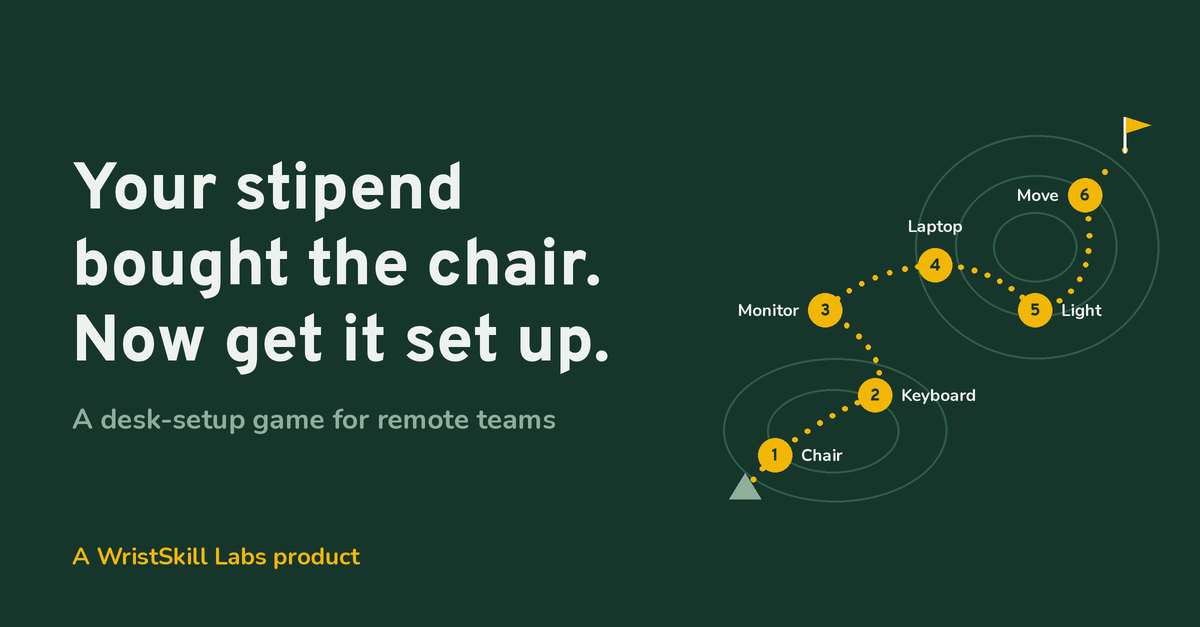
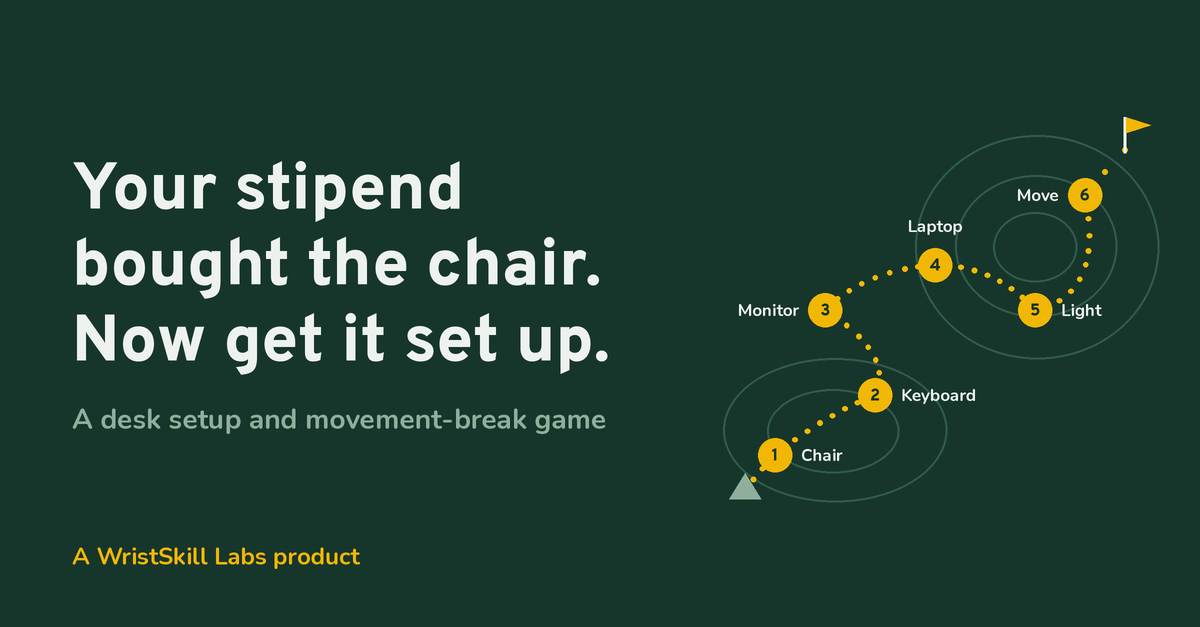
Ergo game page: After the first week section; renamed to desk setup and movement-break game; share card updated

Changed region(s): [[0.1233, 0.6364, 0.5242, 0.697]]

diff --git a/ergo-game/index.html b/ergo-game/index.html
@@ -3,13 +3,13 @@
 <head>
   <meta charset="UTF-8" />
   <meta name="viewport" content="width=device-width, initial-scale=1.0" />
-  <title>A Desk-Setup Game for Remote Teams | WristSkill Labs</title>
+  <title>Desk Setup and Movement-Break Game | WristSkill Labs</title>
   <meta name="description" content="A team game for remote and hybrid desk staff: set up your workstation one mission at a time and take short breaks. HR sees participation only." />
   <!-- noindex until the product has its real name; shared by link only, not in sitemap.xml -->
   <meta name="robots" content="noindex" />
   <link rel="canonical" href="https://wristskill.com/ergo-game/" />
   <meta name="theme-color" content="#17362B" />
-  <meta property="og:title" content="A desk-setup game for remote teams" />
+  <meta property="og:title" content="A desk setup and movement-break game for remote teams" />
   <meta property="og:description" content="Your stipend bought the chair. This helps your team set it up, then keeps it that way. HR sees participation, never health data." />
   <meta property="og:type" content="website" />
   <meta property="og:url" content="https://wristskill.com/ergo-game/" />
@@ -105,6 +105,19 @@
             <p>Quick movement and position-change breaks spread through the workday, each under two minutes, with an easier version and a skip that still counts. Everyone's progress moves the team across the same map. Goals are weekly, so a missed day costs nothing, and there is no individual leaderboard.</p>
           </li>
         </ol>
+      </div>
+    </section>
+
+    <section class="band" id="after">
+      <div class="wrap measure">
+        <h2>After the first week</h2>
+        <p>Setup takes ten minutes. This is what keeps the game useful for the rest of the year, and like the steps above, it's what the pilot is being built to do.</p>
+        <ul>
+          <li>A new region of the map every quarter, so the team always has a next goal.</li>
+          <li>Every new hire runs the setup quest in their first week.</li>
+          <li>When a setup changes, such as a move, a new monitor or starting office days, the game offers a quick tune-up.</li>
+          <li>Each quarter, HR gets a participation report for groups of 5 or more.</li>
+        </ul>
       </div>
     </section>
 

diff --git a/ergo-game/website-privacy.html b/ergo-game/website-privacy.html
@@ -3,7 +3,7 @@
 <head>
   <meta charset="UTF-8" />
   <meta name="viewport" content="width=device-width, initial-scale=1.0" />
-  <title>Website Privacy Notice | WristSkill Labs Desk-Setup Game</title>
+  <title>Website Privacy Notice | WristSkill Labs Desk Setup and Movement-Break Game</title>
   <meta name="robots" content="noindex" />
   <link rel="canonical" href="https://wristskill.com/ergo-game/website-privacy" />
   <meta name="theme-color" content="#17362B" />
@@ -20,7 +20,7 @@
     <h1>Website privacy notice</h1>
     <p class="muted">WristSkill Labs, LLC. Effective October 28, 2026.</p>
 
-    <p>This notice covers the desk-setup game pages of this website, including the "Request a pilot" form. It is about these web pages only. The game itself is still in development and will have its own privacy policy.</p>
+    <p>This notice covers the desk setup and movement-break game pages of this website, including the "Request a pilot" form. It is about these web pages only. The game itself is still in development and will have its own privacy policy.</p>
 
     <h2>What these pages collect automatically</h2>
     <p>No analytics, advertising trackers or tracking cookies run on these pages, and they load no outside fonts or scripts. Netlify, our website host, processes requests to serve and secure the site, which includes your IP address and browser details. See <a href="https://www.netlify.com/privacy/">Netlify's privacy policy</a>.</p>

diff --git a/ergo-game/thanks.html b/ergo-game/thanks.html
@@ -20,7 +20,7 @@
     <h1>Pilot request received</h1>
     <p>Thanks. We'll reply by email to the address you gave us.</p>
     <p>We use your details only to reply about a pilot. To have them deleted, email <a href="mailto:admin@wristskill.com">admin@wristskill.com</a>. See the <a href="/ergo-game/website-privacy">website privacy notice</a>.</p>
-    <p><a href="/ergo-game/">Back to the desk-setup game</a></p>
+    <p><a href="/ergo-game/">Back to the desk setup and movement-break game</a></p>
   </main>
   <footer class="wrap">
     <p>A WristSkill Labs product. © 2026 WristSkill Labs, LLC.</p>
